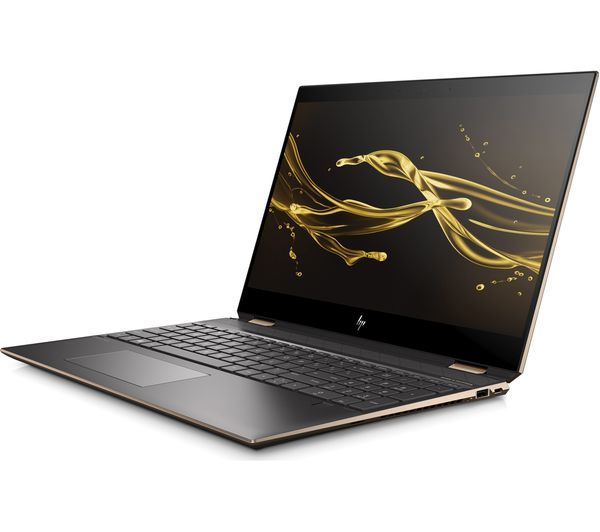
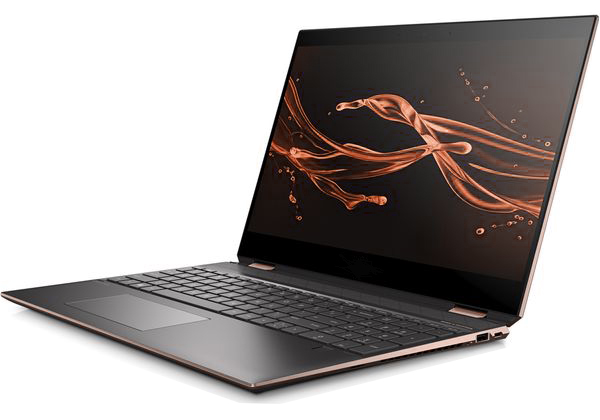
new laptop img  on header

Changed region(s): [[0.0, 0.031, 1.0, 0.9595], [0.78, 0.2167, 0.81, 0.2476]]

diff --git a/src/app/home/header/header.component.scss b/src/app/home/header/header.component.scss
@@ -38,9 +38,9 @@
         top: 50%;
         left: 50%;
         transform: translate(-50%, -50%);
-        height: 300px;
-        width: 635px;
-        background: url("~/assets/laptop.png");
+        height: 350px;
+        width: 500px;
+        background: url("~/assets/laptop-new.jpg");
         background-repeat: no-repeat;
         background-size: cover;
     }
